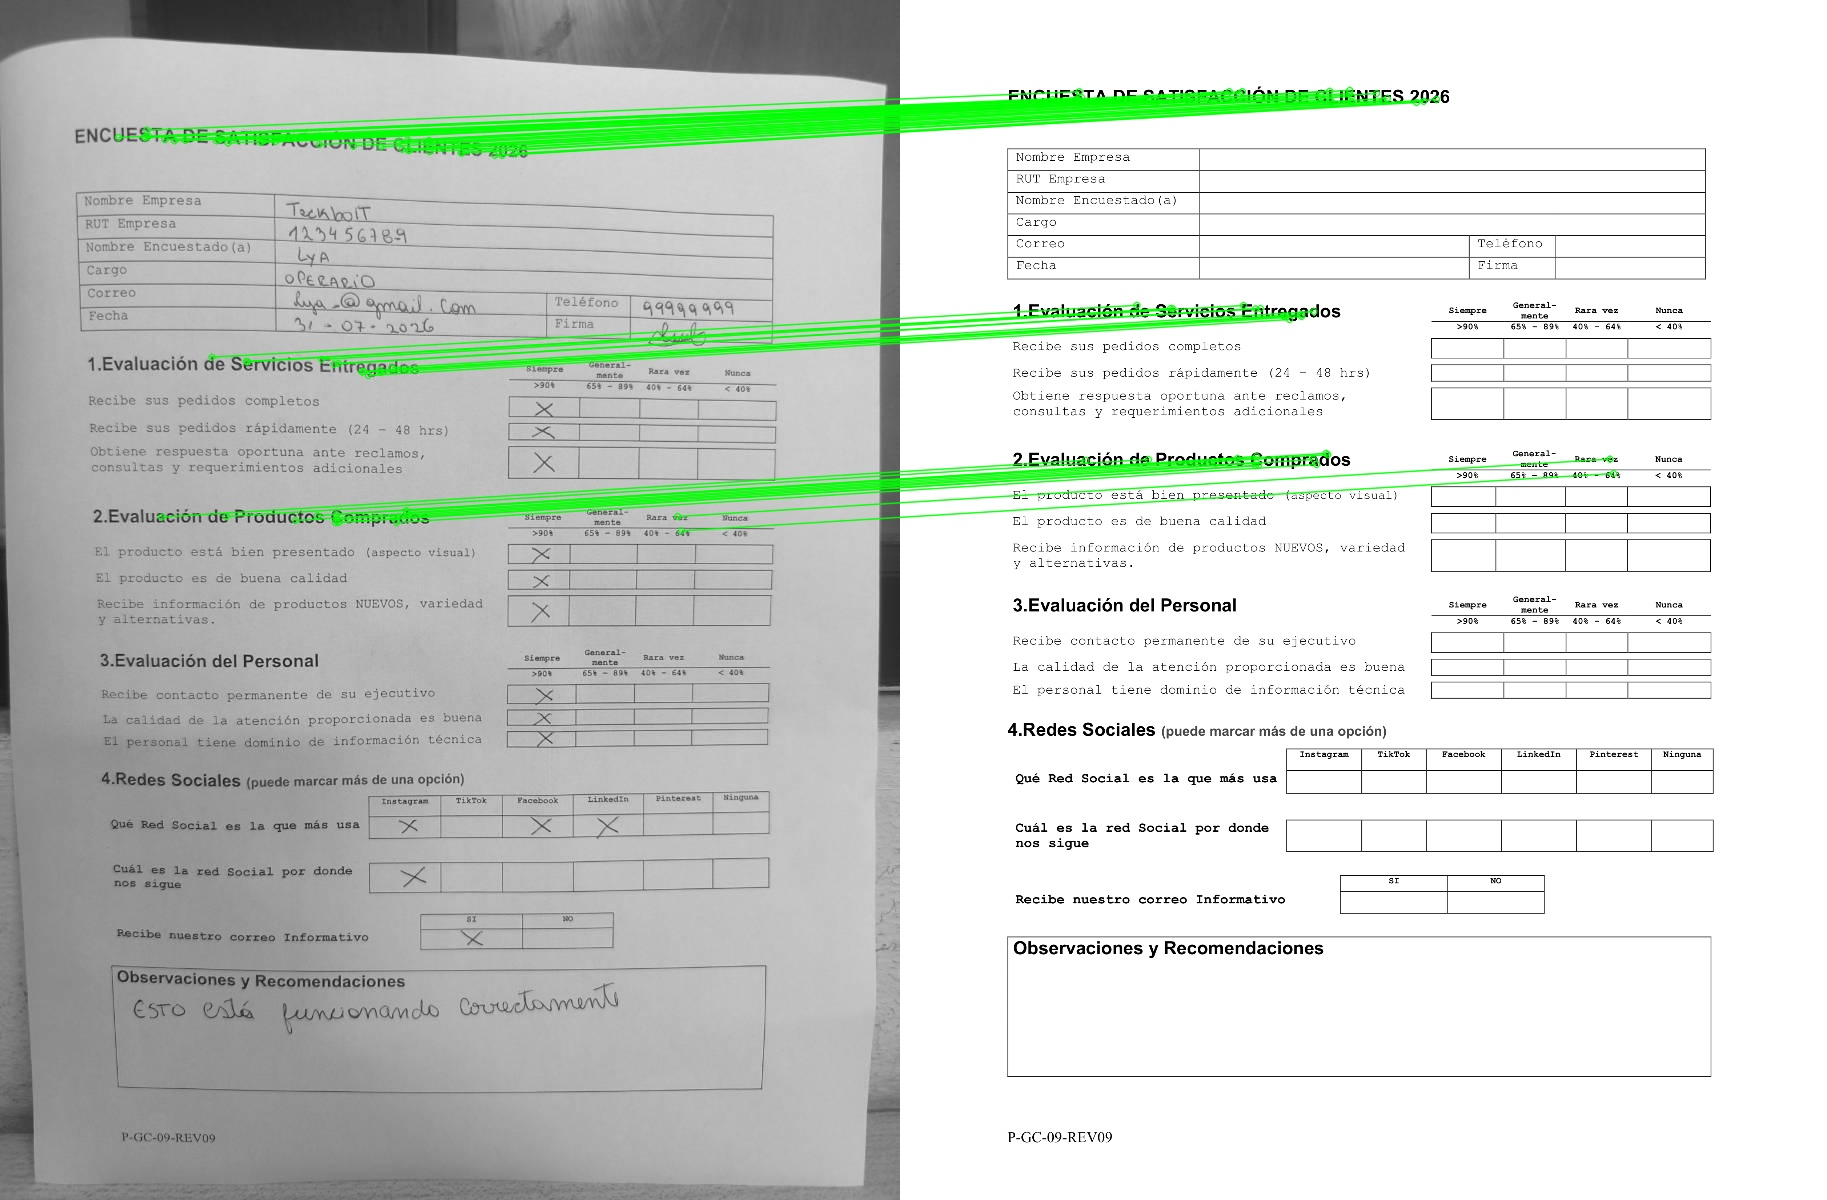
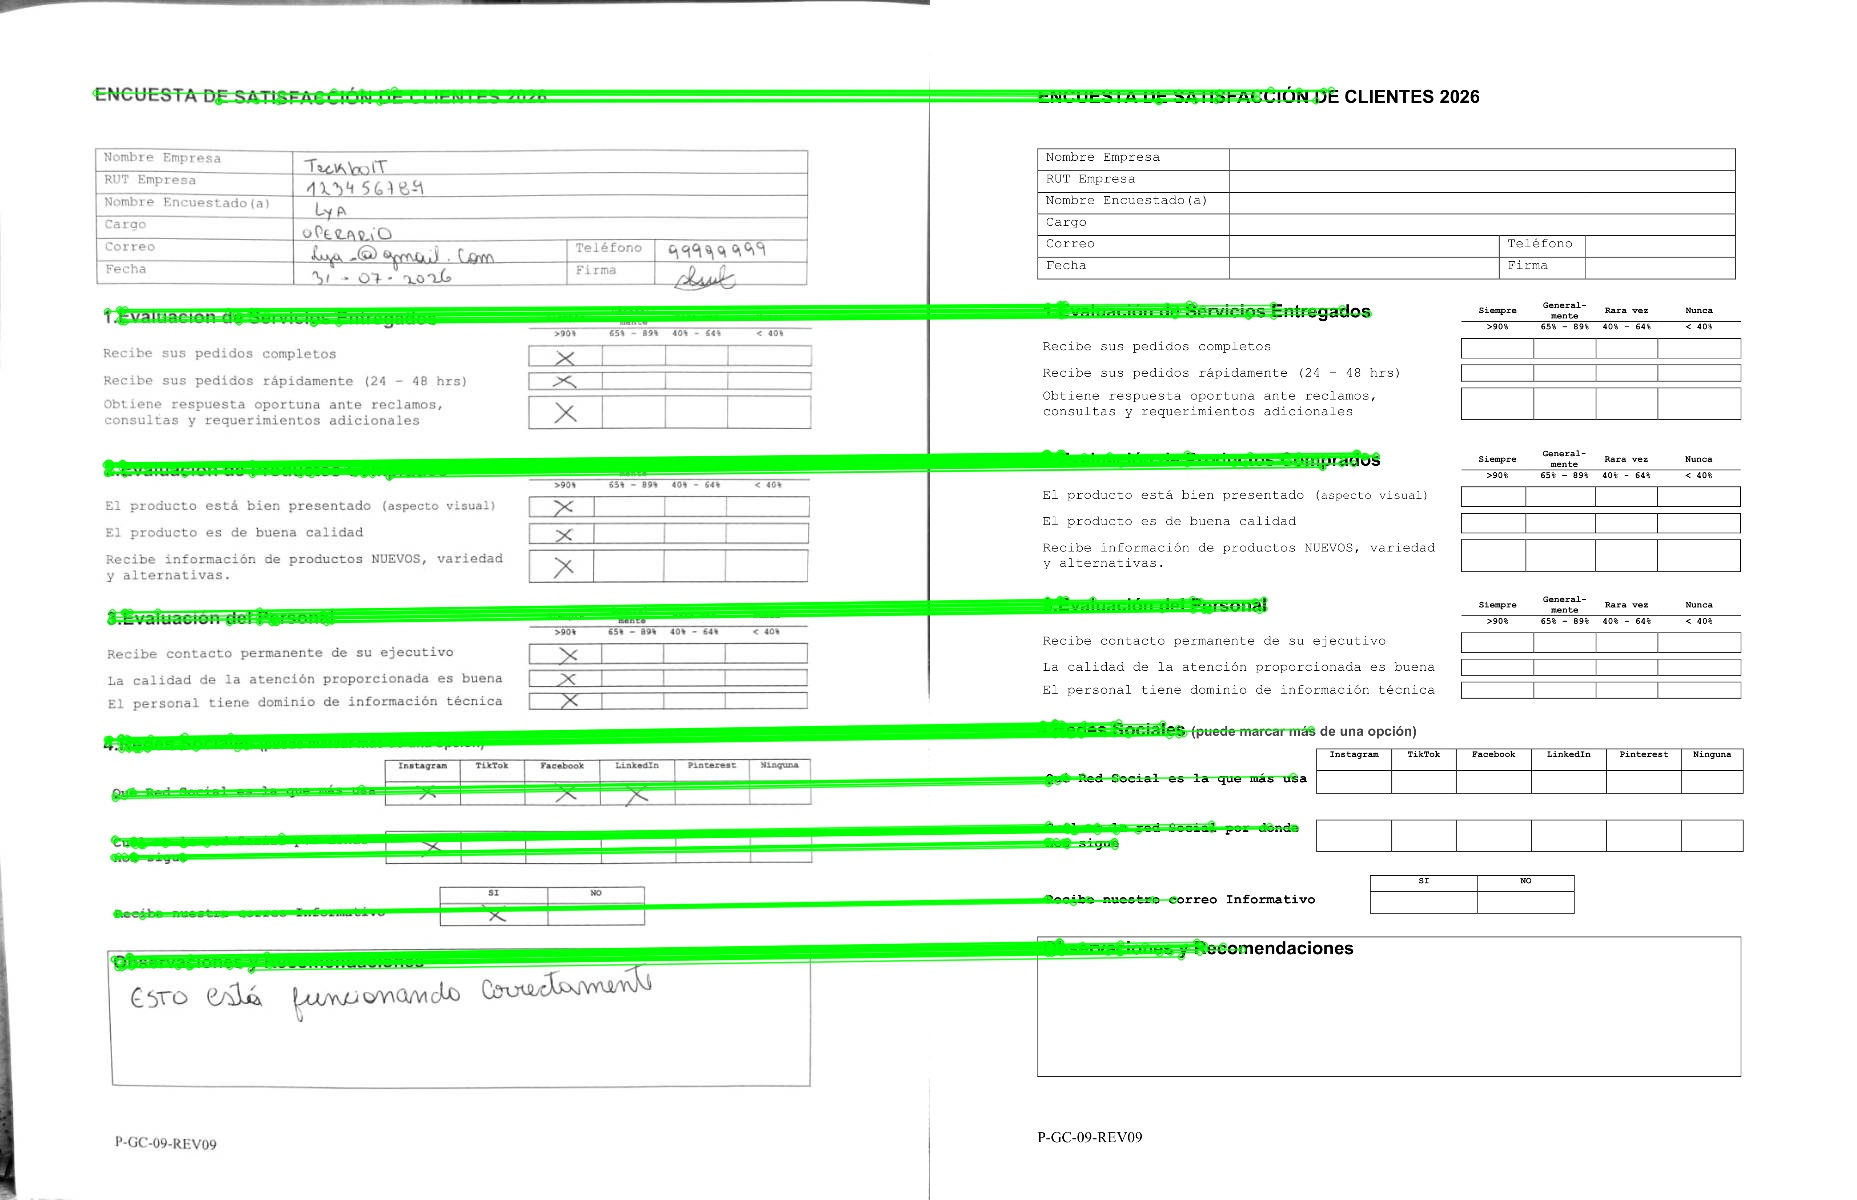
scanner funcionando correctamente, falta calibrar las coordenadas puestas en la base de datospara que funcione bien siempre

diff --git a/Scanner/frontend/encuesta_ventas/src/pages/RellenarEncuesta.jsx b/Scanner/frontend/encuesta_ventas/src/pages/RellenarEncuesta.jsx
@@ -154,23 +154,23 @@ const RellenarEncuesta = ({ onGuardadoExitoso }) => {
 
                     // Traductor exacto de casillas
                     const diccionarioCasillas = {
-                        // 1. Evaluación de Servicios Entregados
+                    // 1. Evaluación de Servicios Entregados
                         'Casilla 1': { campo: 'pedidos_completos', valor: 'Siempre >90%' },
                         'Casilla 2': { campo: 'pedidos_completos', valor: 'Generalmente 65%-89%' },
                         'Casilla 3': { campo: 'pedidos_completos', valor: 'Rara vez 40%-64%' },
                         'Casilla 4': { campo: 'pedidos_completos', valor: 'Nunca <40%' },
-                        
+
                         'Casilla 5': { campo: 'pedidos_rapidos', valor: 'Siempre >90%' },
                         'Casilla 6': { campo: 'pedidos_rapidos', valor: 'Generalmente 65%-89%' },
                         'Casilla 7': { campo: 'pedidos_rapidos', valor: 'Rara vez 40%-64%' },
                         'Casilla 8': { campo: 'pedidos_rapidos', valor: 'Nunca <40%' },
-                        
+
                         'Casilla 9': { campo: 'respuestas_oportunas', valor: 'Siempre >90%' },
                         'Casilla 10': { campo: 'respuestas_oportunas', valor: 'Generalmente 65%-89%' },
                         'Casilla 11': { campo: 'respuestas_oportunas', valor: 'Rara vez 40%-64%' },
                         'Casilla 12': { campo: 'respuestas_oportunas', valor: 'Nunca <40%' },
 
-                        // 2. Evaluación de Productos Comprados
+                    // 2. Evaluación de Productos Comprados
                         'Casilla 13': { campo: 'producto_bien_presentado', valor: 'Siempre >90%' },
                         'Casilla 14': { campo: 'producto_bien_presentado', valor: 'Generalmente 65%-89%' },
                         'Casilla 15': { campo: 'producto_bien_presentado', valor: 'Rara vez 40%-64%' },
@@ -181,52 +181,48 @@ const RellenarEncuesta = ({ onGuardadoExitoso }) => {
                         'Casilla 19': { campo: 'producto_buena_calidad', valor: 'Rara vez 40%-64%' },
                         'Casilla 20': { campo: 'producto_buena_calidad', valor: 'Nunca <40%' },
 
-                        'Casilla 21': { campo: 'recibe_informacion', valor: 'Siempre >90%' },
-                        'Casilla 22': { campo: 'recibe_informacion', valor: 'Generalmente 65%-89%' },
-                        'Casilla 23': { campo: 'recibe_informacion', valor: 'Rara vez 40%-64%' },
-                        'Casilla 24': { campo: 'recibe_informacion', valor: 'Nunca <40%' },
+                        'Casilla 21': { campo: 'informacion_productos_nuevos', valor: 'Siempre >90%' },
+                        'Casilla 22': { campo: 'informacion_productos_nuevos', valor: 'Generalmente 65%-89%' },
+                        'Casilla 23': { campo: 'informacion_productos_nuevos', valor: 'Rara vez 40%-64%' },
+                        'Casilla 24': { campo: 'informacion_productos_nuevos', valor: 'Nunca <40%' },
 
-                        'Casilla 25': { campo: 'informacion_productos_nuevos', valor: 'Siempre >90%' },
-                        'Casilla 26': { campo: 'informacion_productos_nuevos', valor: 'Generalmente 65%-89%' },
-                        'Casilla 27': { campo: 'informacion_productos_nuevos', valor: 'Rara vez 40%-64%' },
-                        'Casilla 28': { campo: 'informacion_productos_nuevos', valor: 'Nunca <40%' },
+                    // 3. Evaluación del Personal
+                        'Casilla 25': { campo: 'contacto_con_ejecutivo', valor: 'Siempre >90%' },
+                        'Casilla 26': { campo: 'contacto_con_ejecutivo', valor: 'Generalmente 65%-89%' },
+                        'Casilla 27': { campo: 'contacto_con_ejecutivo', valor: 'Rara vez 40%-64%' },
+                        'Casilla 28': { campo: 'contacto_con_ejecutivo', valor: 'Nunca <40%' },
 
-                        // 3. Evaluación del Personal
-                        'Casilla 29': { campo: 'contacto_con_ejecutivo', valor: 'Siempre >90%' },
-                        'Casilla 30': { campo: 'contacto_con_ejecutivo', valor: 'Generalmente 65%-89%' },
-                        'Casilla 31': { campo: 'contacto_con_ejecutivo', valor: 'Rara vez 40%-64%' },
-                        'Casilla 32': { campo: 'contacto_con_ejecutivo', valor: 'Nunca <40%' },
+                        'Casilla 29': { campo: 'calidad_atencion', valor: 'Siempre >90%' },
+                        'Casilla 30': { campo: 'calidad_atencion', valor: 'Generalmente 65%-89%' },
+                        'Casilla 31': { campo: 'calidad_atencion', valor: 'Rara vez 40%-64%' },
+                        'Casilla 32': { campo: 'calidad_atencion', valor: 'Nunca <40%' },
 
-                        'Casilla 33': { campo: 'calidad_atencion', valor: 'Siempre >90%' },
-                        'Casilla 34': { campo: 'calidad_atencion', valor: 'Generalmente 65%-89%' },
-                        'Casilla 35': { campo: 'calidad_atencion', valor: 'Rara vez 40%-64%' },
-                        'Casilla 36': { campo: 'calidad_atencion', valor: 'Nunca <40%' },
+                        'Casilla 33': { campo: 'personal_domina_informacion', valor: 'Siempre >90%' },
+                        'Casilla 34': { campo: 'personal_domina_informacion', valor: 'Generalmente 65%-89%' },
+                        'Casilla 35': { campo: 'personal_domina_informacion', valor: 'Rara vez 40%-64%' },
+                        'Casilla 36': { campo: 'personal_domina_informacion', valor: 'Nunca <40%' },
 
-                        'Casilla 37': { campo: 'personal_domina_informacion', valor: 'Siempre >90%' },
-                        'Casilla 38': { campo: 'personal_domina_informacion', valor: 'Generalmente 65%-89%' },
-                        'Casilla 39': { campo: 'personal_domina_informacion', valor: 'Rara vez 40%-64%' },
-                        'Casilla 40': { campo: 'personal_domina_informacion', valor: 'Nunca <40%' },
+                    // 4. Redes Sociales (¿Qué red social usa más?)
+                        'Casilla 37': { campo: 'red_social_usa', valor: 'Instagram' },
+                        'Casilla 38': { campo: 'red_social_usa', valor: 'Tiktok' },
+                        'Casilla 39': { campo: 'red_social_usa', valor: 'Facebook' },
+                        'Casilla 40': { campo: 'red_social_usa', valor: 'Linkedin' },
+                        'Casilla 41': { campo: 'red_social_usa', valor: 'Pinterest' },
+                        'Casilla 42': { campo: 'red_social_usa', valor: 'Ninguna' },
 
-                        // 4. Redes Sociales (¿Qué red social usa más?)
-                        'Casilla 41': { campo: 'red_social_usa', valor: 'Instagram' },
-                        'Casilla 42': { campo: 'red_social_usa', valor: 'Tiktok' },
-                        'Casilla 43': { campo: 'red_social_usa', valor: 'Facebook' },
-                        'Casilla 44': { campo: 'red_social_usa', valor: 'Linkedin' },
-                        'Casilla 45': { campo: 'red_social_usa', valor: 'Pinterest' },
-                        'Casilla 46': { campo: 'red_social_usa', valor: 'Ninguna' },
+                    // ¿Por dónde nos sigue? 
+                        'Casilla 43': { campo: 'red_social_sigue', valor: 'Instagram' },
+                        'Casilla 44': { campo: 'red_social_sigue', valor: 'Tiktok' },
+                        'Casilla 45': { campo: 'red_social_sigue', valor: 'Facebook' },
+                        'Casilla 47': { campo: 'red_social_sigue', valor: 'Linkedin' },
+                        'Casilla 48': { campo: 'red_social_sigue', valor: 'Pinterest' },
+                        'Casilla 49': { campo: 'red_social_sigue', valor: 'Ninguna' },
 
-                        // ¿Por dónde nos sigue?
-                        'Casilla 47': { campo: 'red_social_sigue', valor: 'Instagram' },
-                        'Casilla 48': { campo: 'red_social_sigue', valor: 'Tiktok' },
-                        'Casilla 49': { campo: 'red_social_sigue', valor: 'Facebook' },
-                        'Casilla 50': { campo: 'red_social_sigue', valor: 'Linkedin' },
-                        'Casilla 51': { campo: 'red_social_sigue', valor: 'Pinterest' },
-                        'Casilla 52': { campo: 'red_social_sigue', valor: 'Ninguna' },
-
-                        // Correo Informativo
-                        'Casilla 53': { campo: 'correo_informativo', valor: 'SI' },
-                        'Casilla 54': { campo: 'correo_informativo', valor: 'NO' }
+                    // Correo Informativo
+                        'Casilla 50': { campo: 'correo_informativo', valor: 'SI' },
+                        'Casilla 51': { campo: 'correo_informativo', valor: 'NO' }
                     };
+
 
                     // Limpiar arrays para que no se dupliquen
                     newData.red_social_usa = [];
@@ -403,7 +399,6 @@ const RellenarEncuesta = ({ onGuardadoExitoso }) => {
             { "Campo": "--- 2. EVALUACIÓN DE PRODUCTOS ---", "Valor": "" },
             { "Campo": "Producto Bien Presentado", "Valor": formData.producto_bien_presentado || '' },
             { "Campo": "Producto Buena Calidad", "Valor": formData.producto_buena_calidad || '' },
-            { "Campo": "Recibe Información Compras", "Valor": formData.recibe_informacion || '' },
             { "Campo": "Información Productos Nuevos", "Valor": formData.informacion_productos_nuevos || '' },
             {},
             { "Campo": "--- 3. EVALUACIÓN DEL PERSONAL ---", "Valor": "" },
@@ -611,14 +606,6 @@ const RellenarEncuesta = ({ onGuardadoExitoso }) => {
                                 {opcionesEvaluacion.map((op, i) => (
                                     <td key={i}>
                                         <input type="radio" name="producto_buena_calidad" value={op.val} checked={formData.producto_buena_calidad === op.val} onChange={handleChange} required />
-                                    </td>
-                                ))}
-                            </tr>
-                            <tr>
-                                <td>Recibe información sobre sus compras</td>
-                                {opcionesEvaluacion.map((op, i) => (
-                                    <td key={i}>
-                                        <input type="radio" name="recibe_informacion" value={op.val} checked={formData.recibe_informacion === op.val} onChange={handleChange} required />
                                     </td>
                                 ))}
                             </tr>

diff --git a/Scanner/backend/services/processor.py b/Scanner/backend/services/processor.py
@@ -12,7 +12,7 @@ DEBUG_DIR = os.path.join(BASE_DIR, 'storage')
 
 def _obtener_dimensiones_plantilla():
     #leer dimensiones de la plantilla de referencia
-    if os.path.exist(RUTA_PLANTILLA_IMG):
+    if os.path.exists(RUTA_PLANTILLA_IMG):
         img = cv2.imread(RUTA_PLANTILLA_IMG)
         if img is not None:
             h, w = img.shape[:2]
@@ -34,7 +34,7 @@ def corregir_orientacion_desde_bytes(raw_bytes):
         pil_img = ImageOps.exif_transpose(pil_img)
         if pil_img.mode != 'RGB':
             pil_img = pil_img.convert('RGB')
-        img = cv2.cvtColor(np.array(pil_img))
+        img = cv2.cvtColor(np.array(pil_img), cv2.COLOR_BAYER_BG2BGR)
     except Exception as e:
         print(f"[ORIENTACIÓN] no se pudo leer desde bytes: {e}")
         nparr = np.frombuffer(raw_bytes, np.uint8)
@@ -50,7 +50,7 @@ def auto_orientar_y_cargar(ruta_imagen):
     try:
         pil_img = Image.open(ruta_imagen)
         pil_img = ImageOps.exif_transpose(pil_img)
-        img = cv2.cvtColor(np.array(pil_img), cv2.COLOR_BAYER_BG2BGR)
+        img = cv2.cvtColor(np.array(pil_img), cv2.COLOR_RGB2BGR)
     except Exception as e:
         print(f"advertencia al leer exif: {e}")
         img = cv2.imread(ruta_imagen)
@@ -329,7 +329,7 @@ def evaluar_checkbox_preciso(roi):
     h, w = gris.shape
 
 
-    m_h, m_w = int(h * 0.15), int(w * 0.15)
+    m_h, m_w = int(h * 0.35), int(w * 0.35)
     centro = gris[m_h: h - m_h, m_w: w - m_w]
 
     if centro.size == 0:
@@ -345,7 +345,7 @@ def evaluar_checkbox_preciso(roi):
     porcentaje = (pixeles_tinta / float(centro.size)) * 100.0
 
     if 3.0 < porcentaje < 40.0:
-        return True
+        return True #por si acaso 
 
     return False
 
@@ -353,14 +353,7 @@ def evaluar_checkbox_preciso(roi):
 #procesador
 
 def procesar_encuesta_hibrida(img_original, id_plantilla, raw_bytes=None):
-    """
-    Motor híbrido: PaddleOCR (texto) + OpenCV (checkboxes).
-    
-    Args:
-        img_original: Imagen como array numpy BGR
-        id_plantilla: ID de la plantilla en la BD
-        raw_bytes: Bytes crudos originales (opcional, para corrección EXIF)
-    """
+
     from services.ocr_service import OCRService
 
     # Si tenemos bytes crudos, corregir orientación EXIF primero
@@ -372,11 +365,11 @@ def procesar_encuesta_hibrida(img_original, id_plantilla, raw_bytes=None):
         # Al menos asegurar orientación portrait
         img_original = _asegurar_portrait(img_original)
 
-    # Paso 1: PaddleOCR extrae texto
+    #PaddleOCR extrae texto
     print("[SCANNER] Iniciando extracción de texto con PaddleOCR...")
     datos_texto = OCRService.procesar_encuesta_completa(img_original)
 
-    # Paso 2: Alinear imagen y leer checkboxes con OpenCV
+    #Alinear imagen y leer checkboxes con OpenCV
     print("[SCANNER] Alineando imagen y buscando Checkboxes...")
     img_alineada = alinear_imagen(img_original, guardar_debug=True)
     datos_checkboxes = {}
@@ -400,7 +393,7 @@ def procesar_encuesta_hibrida(img_original, id_plantilla, raw_bytes=None):
 
             campos = cursor.fetchall()
 
-            # Debug: dibujar overlay de los checkboxes sobre la imagen alineada
+            #dibujar overlay de los checkboxes sobre la imagen alineada
             debug_overlay = img_alineada.copy()
 
             for nombre_campo, x, y, w, h in campos:
